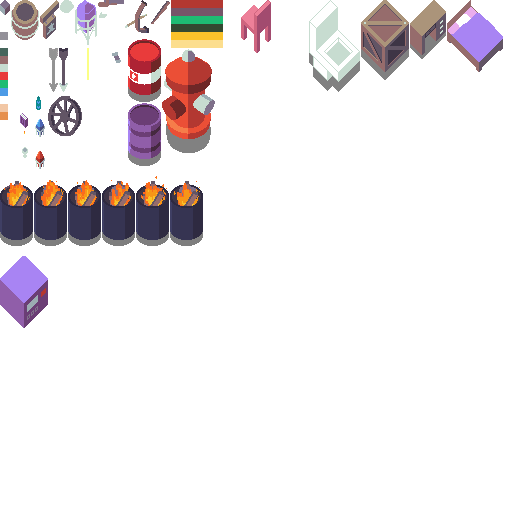
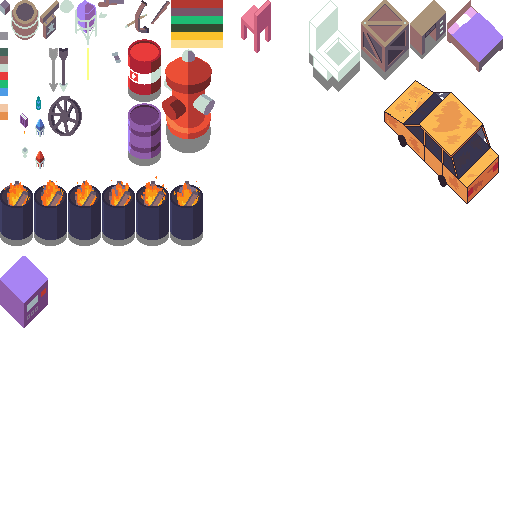
0.6.942

Changed region(s): [[0.75, 0.1562, 1.0, 0.4062]]

diff --git a/bleed-common/lib/src/item_type.dart b/bleed-common/lib/src/item_type.dart
@@ -78,7 +78,6 @@ class ItemType {
   static const GameObjects_Crystal_Small_Red    = Index_GameObjects + 14;
   static const GameObjects_Grenade              = Index_GameObjects + 15;
   static const GameObjects_Car                  = Index_GameObjects + 16;
-  // static const GameObjects_Node_Collider        = Index_GameObjects + 17;
   static const GameObjects_Barrel_Explosive     = Index_GameObjects + 18;
   static const GameObjects_Barrel_Purple        = Index_GameObjects + 19;
   static const GameObjects_Barrel_Flaming       = Index_GameObjects + 20;
@@ -223,6 +222,7 @@ class ItemType {
   static double getRadius(int value) => const <int, double> {
     GameObjects_Vending_Machine: 25,
     GameObjects_Bed: 25,
+    GameObjects_Car: 25,
     GameObjects_Crate_Wooden: 18,
   }[value] ?? 15;
 
@@ -237,6 +237,7 @@ class ItemType {
       value == GameObjects_Vending_Machine   ||
       value == GameObjects_Toilet            ||
       value == GameObjects_Firehydrant       ||
+      value == GameObjects_Car               ||
       value == GameObjects_Tavern_Sign        ;
 
   static bool isPhysical(int value) =>
@@ -250,6 +251,7 @@ class ItemType {
     value == GameObjects_Bed               ||
     value == GameObjects_Toilet            ||
     value == GameObjects_Firehydrant       ||
+    value == GameObjects_Car               ||
     value == GameObjects_Tavern_Sign        ;
 
   static bool isMovable(int value) =>
@@ -651,9 +653,11 @@ class ItemType {
      GameObjects_Crate_Wooden: "Wooden Crate",
      GameObjects_Desk: "Wooden Desk",
      GameObjects_Bed: "Bed",
+     GameObjects_Car: "Car",
      GameObjects_Vending_Machine: "Vending Machine",
      GameObjects_Firehydrant: "Fire Hydrant",
   }[value] ?? "item-type-unknown($value)";
+
 
   static int getMaxQuantity(int itemType) => const {
     Resource_Fuel         : 500,
@@ -768,6 +772,7 @@ class ItemType {
      GameObjects_Vending_Machine,
      GameObjects_Bed,
      GameObjects_Firehydrant,
+     GameObjects_Car,
   ];
 
   static bool isTypeBarrel(int type)=> const [
@@ -784,6 +789,7 @@ class ItemType {
     GameObjects_Barrel_Flaming,
     GameObjects_Vending_Machine,
     GameObjects_Firehydrant,
+    GameObjects_Car,
   ].contains(type);
 }
 

diff --git a/bleed-server/lib/common/src/item_type.dart b/bleed-server/lib/common/src/item_type.dart
@@ -78,7 +78,6 @@ class ItemType {
   static const GameObjects_Crystal_Small_Red    = Index_GameObjects + 14;
   static const GameObjects_Grenade              = Index_GameObjects + 15;
   static const GameObjects_Car                  = Index_GameObjects + 16;
-  // static const GameObjects_Node_Collider        = Index_GameObjects + 17;
   static const GameObjects_Barrel_Explosive     = Index_GameObjects + 18;
   static const GameObjects_Barrel_Purple        = Index_GameObjects + 19;
   static const GameObjects_Barrel_Flaming       = Index_GameObjects + 20;
@@ -223,6 +222,7 @@ class ItemType {
   static double getRadius(int value) => const <int, double> {
     GameObjects_Vending_Machine: 25,
     GameObjects_Bed: 25,
+    GameObjects_Car: 25,
     GameObjects_Crate_Wooden: 18,
   }[value] ?? 15;
 
@@ -237,6 +237,7 @@ class ItemType {
       value == GameObjects_Vending_Machine   ||
       value == GameObjects_Toilet            ||
       value == GameObjects_Firehydrant       ||
+      value == GameObjects_Car               ||
       value == GameObjects_Tavern_Sign        ;
 
   static bool isPhysical(int value) =>
@@ -250,6 +251,7 @@ class ItemType {
     value == GameObjects_Bed               ||
     value == GameObjects_Toilet            ||
     value == GameObjects_Firehydrant       ||
+    value == GameObjects_Car               ||
     value == GameObjects_Tavern_Sign        ;
 
   static bool isMovable(int value) =>
@@ -651,9 +653,11 @@ class ItemType {
      GameObjects_Crate_Wooden: "Wooden Crate",
      GameObjects_Desk: "Wooden Desk",
      GameObjects_Bed: "Bed",
+     GameObjects_Car: "Car",
      GameObjects_Vending_Machine: "Vending Machine",
      GameObjects_Firehydrant: "Fire Hydrant",
   }[value] ?? "item-type-unknown($value)";
+
 
   static int getMaxQuantity(int itemType) => const {
     Resource_Fuel         : 500,
@@ -768,6 +772,7 @@ class ItemType {
      GameObjects_Vending_Machine,
      GameObjects_Bed,
      GameObjects_Firehydrant,
+     GameObjects_Car,
   ];
 
   static bool isTypeBarrel(int type)=> const [
@@ -784,6 +789,7 @@ class ItemType {
     GameObjects_Barrel_Flaming,
     GameObjects_Vending_Machine,
     GameObjects_Firehydrant,
+    GameObjects_Car,
   ].contains(type);
 }
 

diff --git a/gamestream_flutter/lib/game_atlas.dart b/gamestream_flutter/lib/game_atlas.dart
@@ -7,7 +7,7 @@ class AtlasItems {
       itemType == ItemType.GameObjects_Barrel_Flaming ? 34.0 * GameAnimation.animationFrame6 :
 
       const <int, double> {
-        ItemType.GameObjects_Car: 0,
+        ItemType.GameObjects_Car: 384,
         ItemType.GameObjects_Crystal: 75,
         ItemType.GameObjects_Candle: 23,
         ItemType.GameObjects_Barrel: 11,
@@ -90,7 +90,7 @@ class AtlasItems {
 
   static double getSrcY(int itemType) =>
       const <int, double>{
-        ItemType.GameObjects_Car: 144,
+        ItemType.GameObjects_Car: 80,
         ItemType.GameObjects_Crystal: 0,
         ItemType.GameObjects_Candle: 131,
         ItemType.GameObjects_Barrel: 0,
@@ -167,7 +167,7 @@ class AtlasItems {
 
   static double getSrcWidth(int itemType) =>
       const <int, double>{
-        ItemType.GameObjects_Car: 143,
+        ItemType.GameObjects_Car: 115,
         ItemType.GameObjects_Crystal: 22,
         ItemType.GameObjects_Barrel: 28,
         ItemType.GameObjects_Barrel_Explosive: 33,
@@ -192,7 +192,7 @@ class AtlasItems {
       }[itemType] ?? size;
 
   static double getSrcHeight(int itemType) => const <int, double>{
-        ItemType.GameObjects_Car: 105,
+        ItemType.GameObjects_Car: 124,
         ItemType.GameObjects_Crystal: 45,
         ItemType.GameObjects_Barrel: 40,
         ItemType.GameObjects_Barrel_Explosive: 63,
@@ -222,6 +222,7 @@ class AtlasItems {
         ItemType.GameObjects_Toilet: 0.5,
         ItemType.GameObjects_Crate_Wooden: 0.75,
         ItemType.GameObjects_Firehydrant: 0.4,
+        ItemType.GameObjects_Car: 0.66,
   }[itemType] ?? 1.0;
 
 

diff --git a/bleed-common/lib/src/version.dart b/bleed-common/lib/src/version.dart
@@ -1,4 +1,4 @@
-const version = '0.6.941';
+const version = '0.6.942';
 
 
 

diff --git a/bleed-server/lib/common/src/version.dart b/bleed-server/lib/common/src/version.dart
@@ -1,4 +1,4 @@
-const version = '0.6.941';
+const version = '0.6.942';
 
 
 

diff --git a/gamestream_flutter/README.md b/gamestream_flutter/README.md
@@ -7,6 +7,7 @@ navigate to next method: ctrl + shift + up / down arrows
 ctrl + w:   minimal mode
 
 19.01.2023
+[x] feature gameobject car
 [x] replace SizedBox empty with singleton
 [x] fix gameobject inventory image 
 
